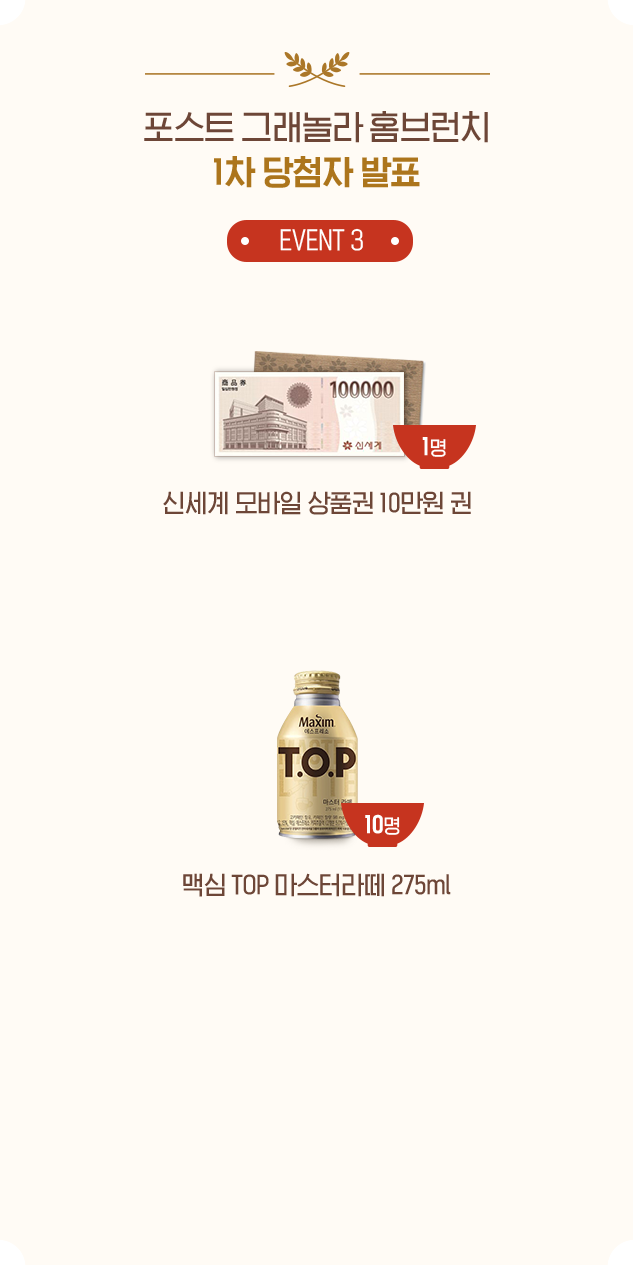
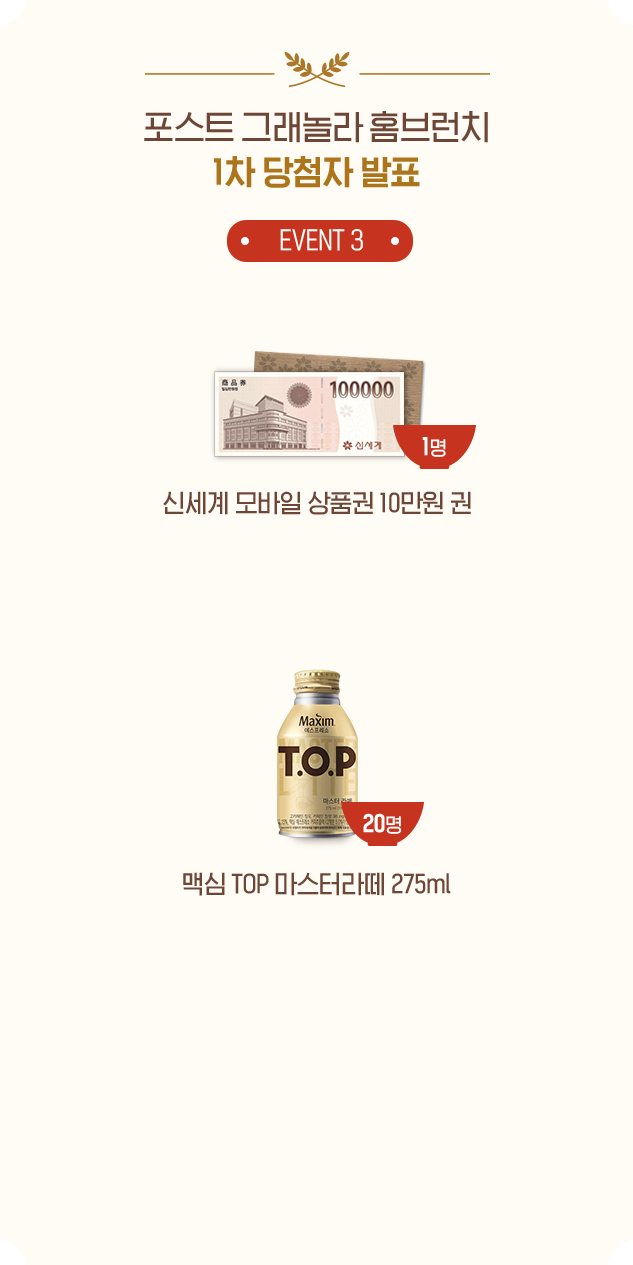
수정

Changed region(s): [[0.4502, 0.5241, 0.6904, 0.7091], [0.3002, 0.6783, 0.3602, 0.7091], [0.3902, 0.6783, 0.4202, 0.7091]]

diff --git a/index.html b/index.html
@@ -722,7 +722,7 @@
 								</ul>
 							</div>
 							<div class="result-prize result-prize5">
-								<h5 class="sr-only">맥심 TOP 마스터라떼 275ml : 10명</h5>
+								<h5 class="sr-only">맥심 TOP 마스터라떼 275ml : 20명</h5>
 								<ul>
 									<li><span>강*순</span><span>45*8</span></li>
 									<li><span>김*순</span><span>08*5</span></li>
@@ -734,6 +734,18 @@
 									<li><span>양*나</span><span>47*2</span></li>
 									<li><span>윤*환</span><span>85*4</span></li>
 									<li><span>윤*라</span><span>61*0</span></li>
+
+									<li><span>이*름</span><span>50*4</span></li>
+									<li><span>이*빈</span><span>69*0</span></li>
+									<li><span>이*연</span><span>44*6</span></li>
+									<li><span>장*희</span><span>14*5</span></li>
+									<li><span>장*태</span><span>14*4</span></li>
+									<li><span>정*나</span><span>14*0</span></li>
+									<li><span>제*카</span><span>39*3</span></li>
+									<li><span>조*미</span><span>07*2</span></li>
+									<li><span>한*숙</span><span>86*1</span></li>
+									<li><span>황*숙</span><span>49*0</span></li>
+									<li><span></span><span></span></li>
 								</ul>
 							</div>
 						</div>

diff --git a/src/css/common.css b/src/css/common.css
@@ -1958,22 +1958,26 @@ footer p:last-child {
 	border-bottom-left-radius: 1rem;
 }
 
-.result-prize3 ul{
+.result-prize3 ul,
+.result-prize5 ul{
 	border-top-left-radius: 1rem;
 	border-top-right-radius: 0;
 	border-bottom-left-radius: 1rem;
 	border-bottom-right-radius: 0;
 }
 
-.result-prize3::-webkit-scrollbar {
+.result-prize3::-webkit-scrollbar,
+.result-prize5::-webkit-scrollbar {
 	width: 2rem;
 }
 
-.result-prize3::-webkit-scrollbar-thumb {
+.result-prize3::-webkit-scrollbar-thumb ,
+.result-prize5::-webkit-scrollbar-thumb{
 	background: #c39453;
 }
 
-.result-prize3::-webkit-scrollbar-track {
+.result-prize3::-webkit-scrollbar-track,
+.result-prize5::-webkit-scrollbar-track {
 	background: #ddd8d1;
 }
 
@@ -1983,6 +1987,9 @@ footer p:last-child {
 
 .result-prize5{
 	margin-top: 29rem;
+	height: 21.3rem;
+	overflow-y: scroll;
+	border-bottom-left-radius: 1rem;
 }
 
 @media (max-width: 720px) {
